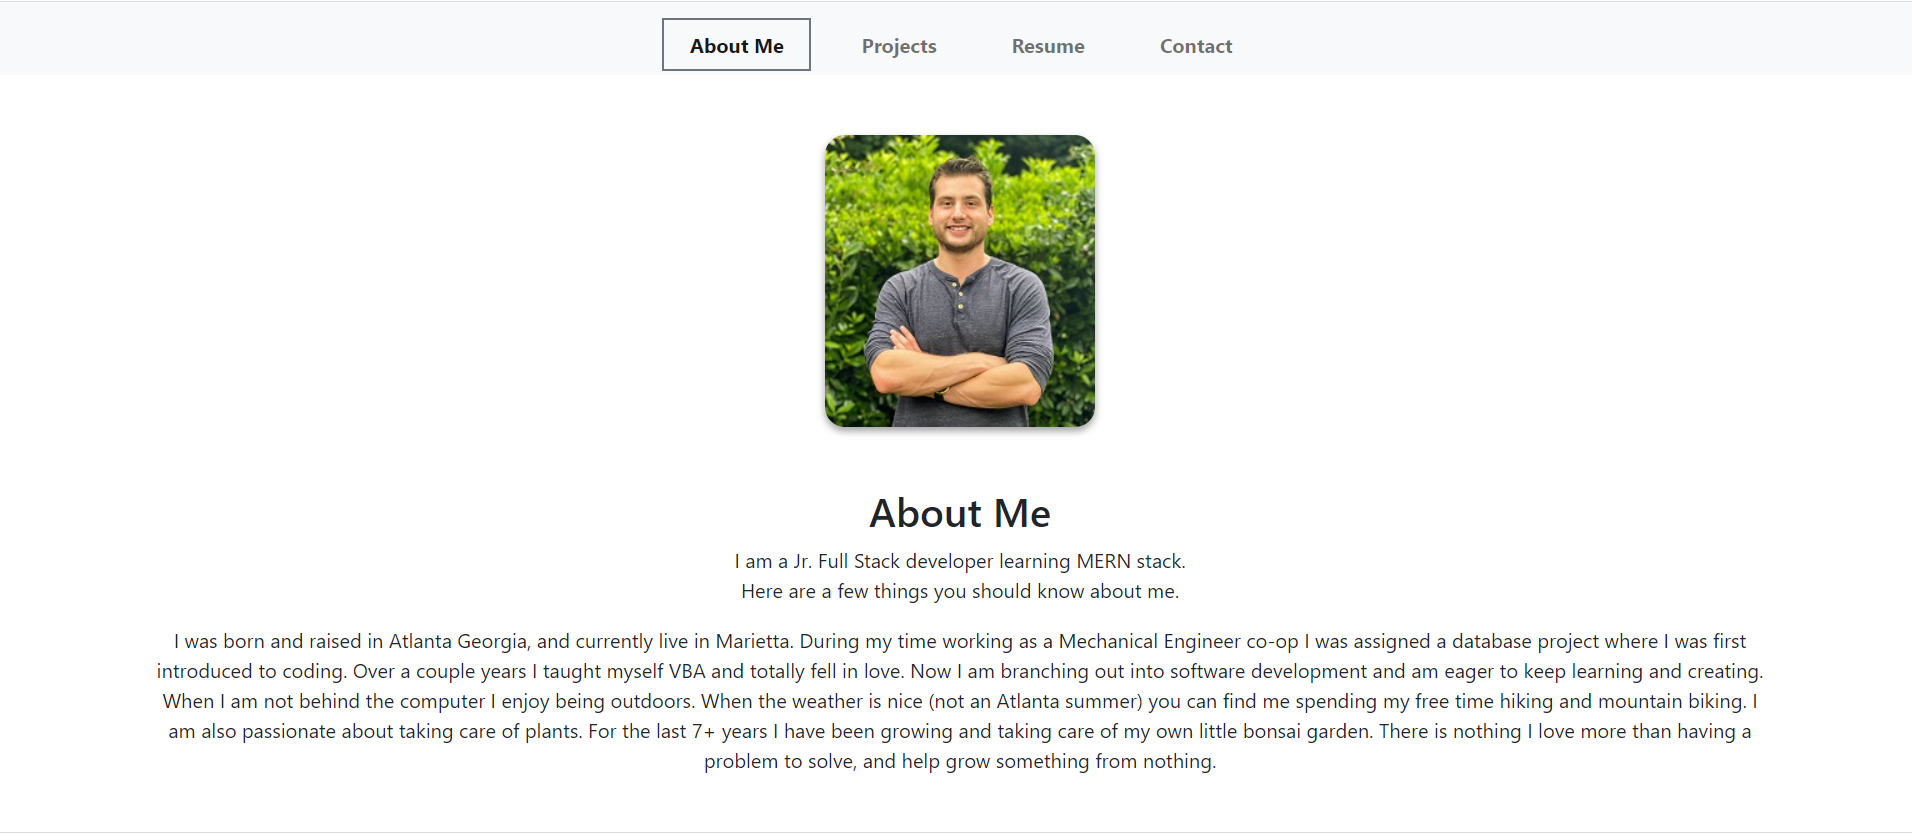
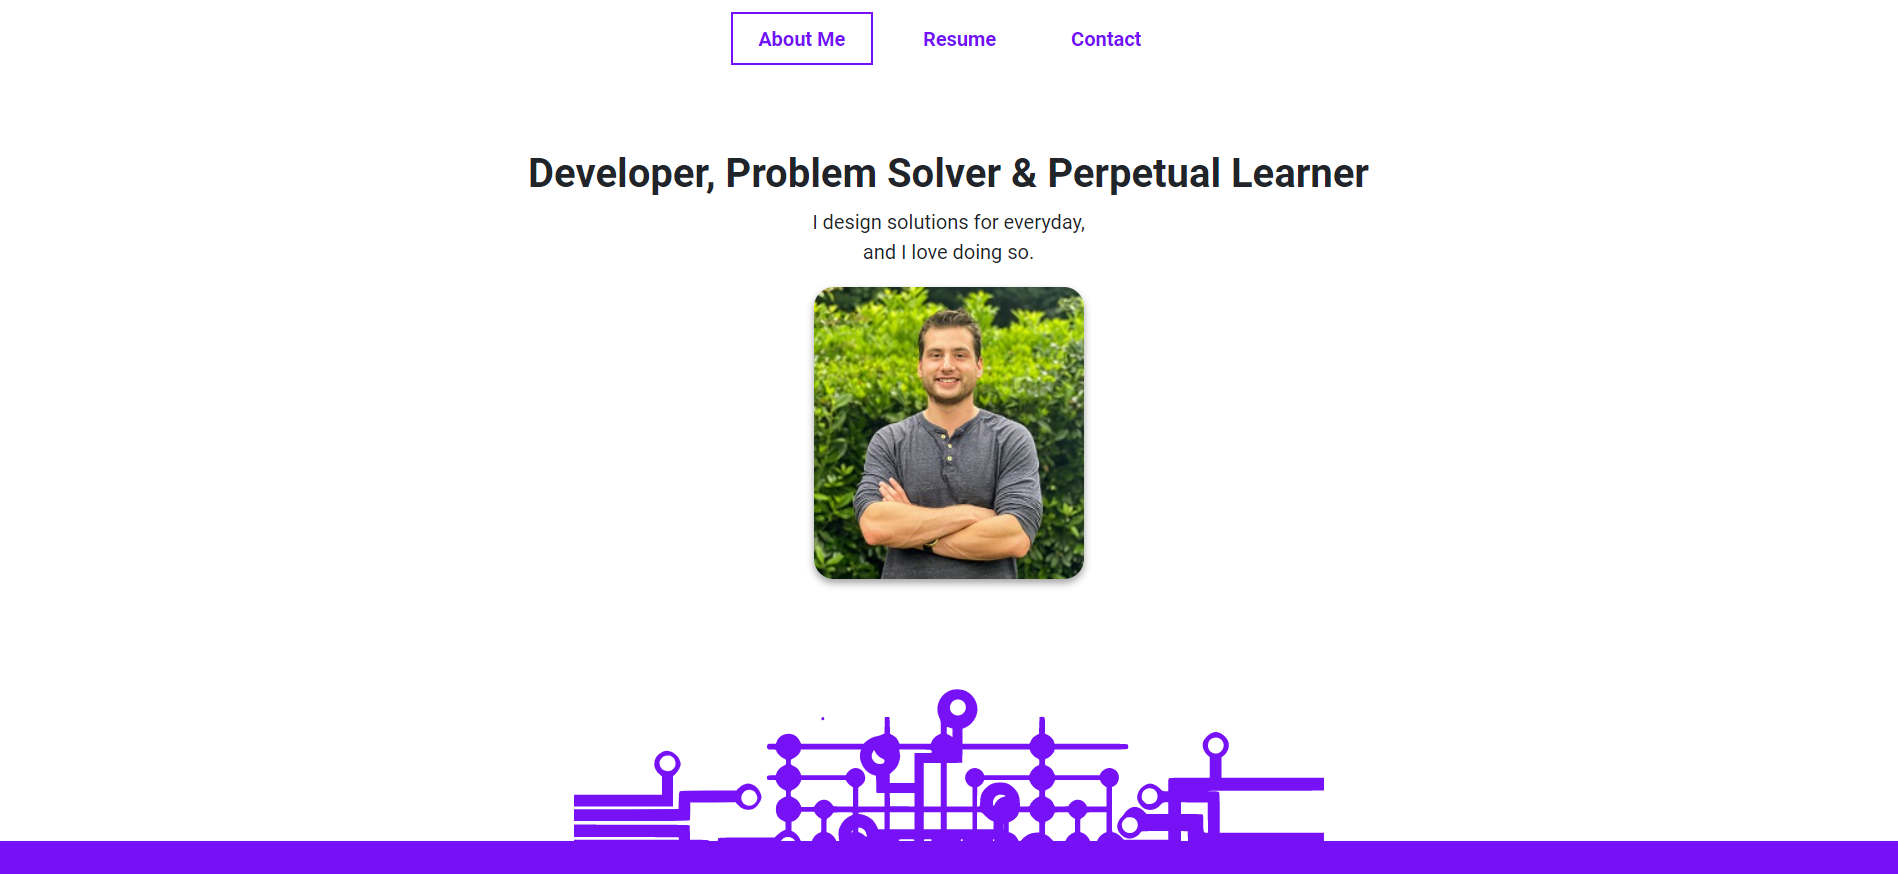
update images and contact style on home

Changed region(s): [[0.0, 0.7473, 1.0, 1.0], [0.2798, 0.1557, 0.746, 0.7162], [0.3419, 0.0, 0.6528, 0.0934]]

diff --git a/src/components/About.js b/src/components/About.js
@@ -7,7 +7,7 @@ function About() {
         <header className="intro">
           <h2>Developer, Problem Solver & Perpetual Learner </h2>
           <p>
-            I design solutions everyday,
+            I design solutions for everyday,
             <br />
             and I love doing so.
           </p>
@@ -40,6 +40,9 @@ function About() {
             nothing I love more than having a problem to solve, and help grow
             something from nothing.
           </p>
+          <br />
+          <br />
+          <h2>Here Are Some Of My Recent Projects:</h2>
         </div>
       </section>
     </div>

diff --git a/src/components/Contact.js b/src/components/Contact.js
@@ -8,8 +8,11 @@ function Contact() {
   return (
     <div className=" cardContainer container">
       <div className="row">
-        <div className="card contactCard col-11 col-md-10 col-xl-8">
-          <img className="imgMain imgContact col-10 " src={meContact}></img>
+        <div className="card contactCard col-10 col-xl-8">
+          <img
+            className="imgMain imgContact col-10 col-lg-8 "
+            src={meContact}
+          ></img>
           <h2>Want more of me?</h2>
           <div className="contactContainer">
             <a

diff --git a/src/App.css b/src/App.css
@@ -341,7 +341,8 @@ iframe {
   margin-bottom: 5rem;
 }
 .card h2 {
-  color: var(--grey);
+  color: black;
+  font-weight: 700;
 }
 
 .contactContainer {
@@ -404,10 +405,11 @@ iframe {
 
 .matrix {
   /* z-index: -1; */
+  /* margin-top: -26%; */
   position: absolute;
   left: 0;
   width: 100vw !important;
-  max-height: 1200px;
+  max-height: 800px;
 }
 
 /* *****************Media Query********************* */
